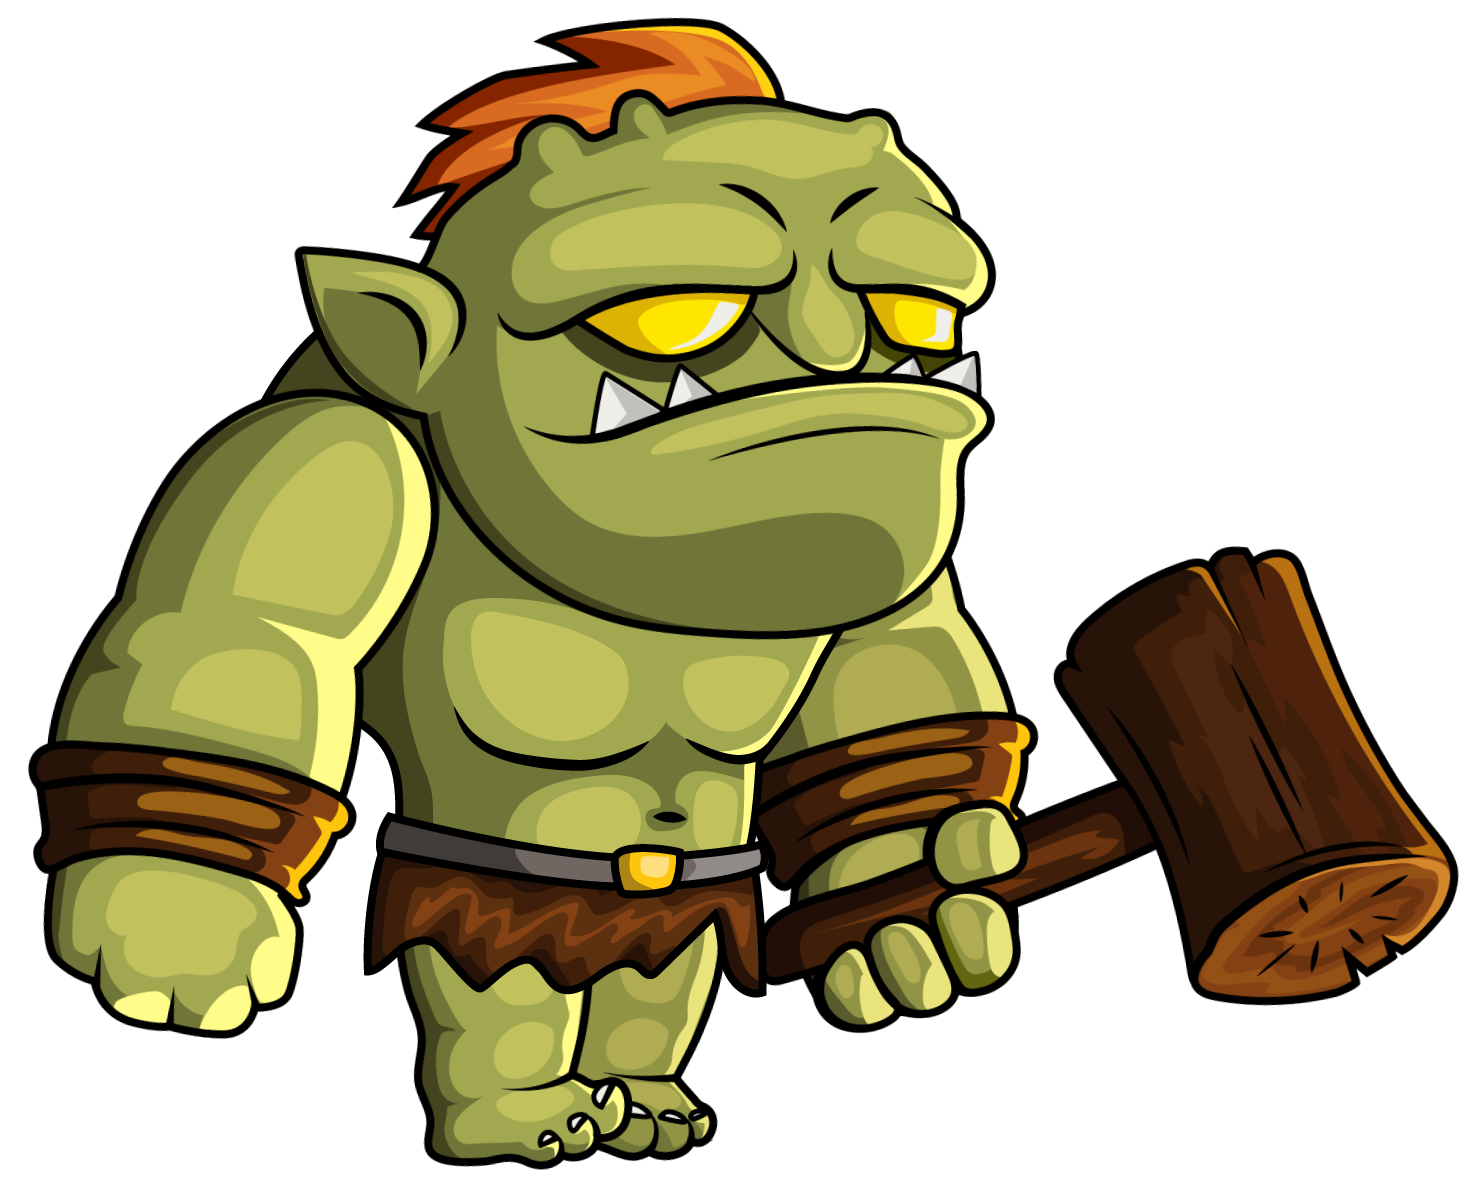
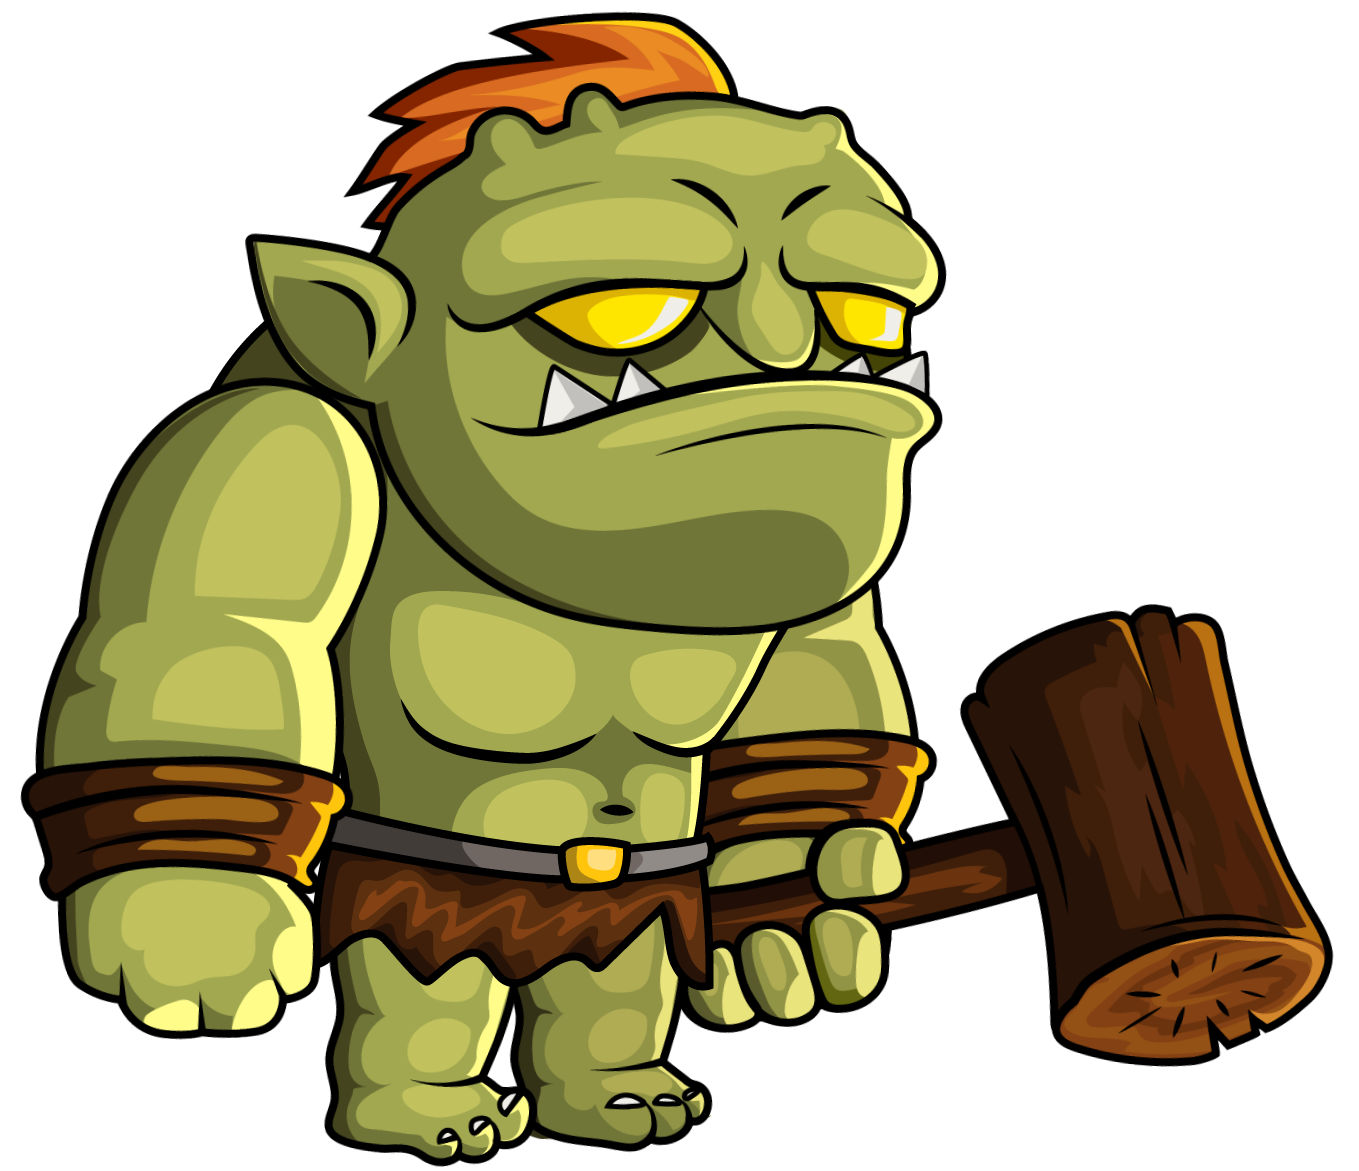
fixed animation

Changed region(s): [[0.0, 0.0, 1.0, 1.0], [0.5254, 0.3689, 0.5563, 0.3997]]

diff --git a/Enemy/Orge.py b/Enemy/Orge.py
@@ -8,7 +8,7 @@ Orge_images = []
 
 
 # add image for Orge
-for x in range(7):
+for x in range(4):
     string = str(x)
     Orge_images.append(pygame.transform.scale(
         pygame.image.load(os.path.join("Assets/ORG/1_ORK/WALK", "WALK_00" + string + ".png")), (50, 50)))
